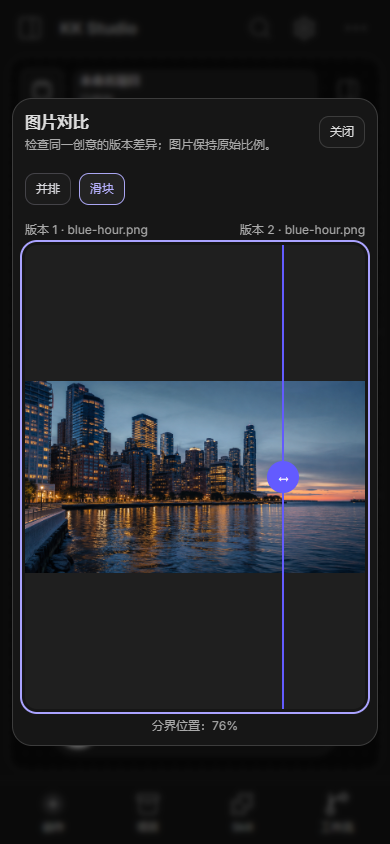
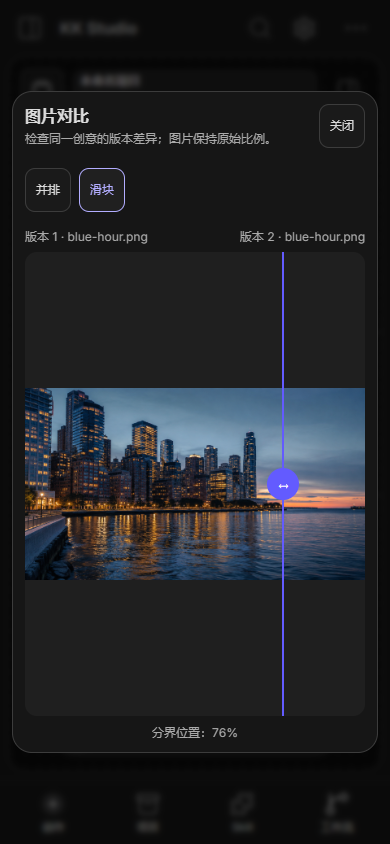
fix: preserve comparison touch targets on zoomed canvas

diff --git a/tests/browser/image-compare.spec.ts b/tests/browser/image-compare.spec.ts
@@ -148,39 +148,85 @@ test("two canvas images open a comparison and the slider supports keyboard steps
 });
 
 test("narrow canvas keeps the comparison controls reachable and slider draggable", async ({
-  page,
+  browser,
 }) => {
-  await page.setViewportSize({ width: 390, height: 844 });
-  await openWorkspace(page);
-  await showCanvasNavigation(page);
-  const first = page.getByTestId("canvas-node-image");
-  await uploadImage(page, first);
-  await page.getByRole("button", { name: "小地图" }).click();
-  await page.getByRole("button", { name: "定位 blue-hour.png" }).click();
-  await first.getByRole("button", { name: /加入对比/ }).click();
-  const second = await addSecondImage(page);
-  await second.getByRole("button", { name: /加入对比/ }).click();
-  const selection = page.getByRole("region", { name: "图片对比选择" });
-  await expect(
-    selection.getByRole("button", { name: "打开对比" }),
-  ).toBeVisible();
-  await selection.getByRole("button", { name: "打开对比" }).click();
-  const dialog = page.getByRole("dialog", { name: "图片对比" });
-  await expect(dialog).toBeVisible();
-  const box = (await dialog.boundingBox())!;
-  expect(box.x).toBeGreaterThanOrEqual(0);
-  expect(box.x + box.width).toBeLessThanOrEqual(390);
-  await dialog.getByRole("button", { name: "滑块" }).click();
-  const slider = dialog.getByRole("slider", { name: "对比位置" });
-  const track = (await slider.boundingBox())!;
-  await page.mouse.click(
-    track.x + track.width * 0.75,
-    track.y + track.height / 2,
-  );
-  await expect
-    .poll(async () => Number(await slider.inputValue()))
-    .toBeGreaterThan(60);
-  await page.screenshot({
-    path: "docs/changes/2026-09-27-canvas-image-compare/evidence/compare-390.png",
+  const context = await browser.newContext({
+    baseURL: "http://127.0.0.1:1423",
+    viewport: { width: 390, height: 844 },
+    hasTouch: true,
   });
+  try {
+    const page = await context.newPage();
+    await openWorkspace(page);
+    await showCanvasNavigation(page);
+    const first = page.getByTestId("canvas-node-image");
+    await uploadImage(page, first);
+    await page.getByRole("button", { name: "小地图" }).click();
+    await page.getByRole("button", { name: "定位 blue-hour.png" }).click();
+    const firstCompare = first.getByRole("button", { name: /加入对比/ });
+    expect((await firstCompare.boundingBox())!.height).toBeGreaterThanOrEqual(
+      44,
+    );
+    await firstCompare.click();
+    const second = await addSecondImage(page);
+    await second.getByRole("button", { name: /加入对比/ }).click();
+    const selection = page.getByRole("region", { name: "图片对比选择" });
+    await expect(
+      selection.getByRole("button", { name: "打开对比" }),
+    ).toBeVisible();
+    expect(
+      (await selection.locator(".image-compare-chip").first().boundingBox())!
+        .height,
+    ).toBeGreaterThanOrEqual(44);
+    expect(
+      (await selection.getByRole("button", { name: "打开对比" }).boundingBox())!
+        .height,
+    ).toBeGreaterThanOrEqual(44);
+    await selection.getByRole("button", { name: "打开对比" }).click();
+    const dialog = page.getByRole("dialog", { name: "图片对比" });
+    await expect(dialog).toBeVisible();
+    for (const label of ["关闭图片对比", "并排", "滑块", "缩小", "放大"]) {
+      expect(
+        (await dialog.getByRole("button", { name: label }).boundingBox())!
+          .height,
+      ).toBeGreaterThanOrEqual(44);
+    }
+    const box = (await dialog.boundingBox())!;
+    expect(box.x).toBeGreaterThanOrEqual(0);
+    expect(box.x + box.width).toBeLessThanOrEqual(390);
+    await dialog.getByRole("button", { name: "滑块" }).click();
+    const slider = dialog.getByRole("slider", { name: "对比位置" });
+    const track = (await slider.boundingBox())!;
+    const y = track.y + track.height / 2;
+    const startX = track.x + track.width * 0.25;
+    const endX = track.x + track.width * 0.75;
+    expect(await page.evaluate(() => navigator.maxTouchPoints)).toBeGreaterThan(
+      0,
+    );
+    await page.touchscreen.tap(startX, y);
+    await expect
+      .poll(async () => Number(await slider.inputValue()))
+      .toBeLessThan(40);
+    const cdp = await context.newCDPSession(page);
+    await cdp.send("Input.dispatchTouchEvent", {
+      type: "touchStart",
+      touchPoints: [{ x: startX, y }],
+    });
+    await cdp.send("Input.dispatchTouchEvent", {
+      type: "touchMove",
+      touchPoints: [{ x: endX, y }],
+    });
+    await cdp.send("Input.dispatchTouchEvent", {
+      type: "touchEnd",
+      touchPoints: [],
+    });
+    await expect
+      .poll(async () => Number(await slider.inputValue()))
+      .toBeGreaterThan(60);
+    await page.screenshot({
+      path: "docs/changes/2026-09-27-canvas-image-compare/evidence/compare-390.png",
+    });
+  } finally {
+    await context.close();
+  }
 });

diff --git a/src/styles/canvas-compare.css b/src/styles/canvas-compare.css
@@ -1,11 +1,13 @@
 .image-preview > .compare-image-button {
   position: absolute;
-  top: 12px;
-  right: 12px;
+  top: 0;
+  right: 0;
   z-index: 3;
   min-height: 32px;
   background: var(--bg-surface);
   border: 1px solid var(--border-default);
+  transform: scale(calc(1 / var(--canvas-scale, 1))) translate(-12px, 12px);
+  transform-origin: top right;
 }
 
 .image-compare-selection {
@@ -346,6 +348,11 @@
   }
 
   .image-compare-selection-actions .ui-button {
+    min-height: 44px;
+  }
+
+  .image-compare-chip,
+  .image-compare-dialog .ui-button {
     min-height: 44px;
   }
 

diff --git a/docs/changes/2026-09-27-canvas-image-compare/verification.md b/docs/changes/2026-09-27-canvas-image-compare/verification.md
@@ -8,36 +8,36 @@
 
 ## 基线
 
-| 检查 | 结果 | 边界 |
-| --- | --- | --- |
-| `npm ci`，Node 24.21.0 | PASS | 独立 worktree；postinstall Agent/插件构建通过 |
-| `npm run typecheck` | PASS | 代码修改前 |
-| `npm run lint` | PASS | 治理 70/0、功能 32/0、Markdown 85/0；代码修改前 |
-| `npm run ui:check` | PASS | 159 文件、0 违规；代码修改前 |
-| `npm test` | PASS | 456/456；代码修改前 |
+| 检查                   | 结果 | 边界                                            |
+| ---------------------- | ---- | ----------------------------------------------- |
+| `npm ci`，Node 24.21.0 | PASS | 独立 worktree；postinstall Agent/插件构建通过   |
+| `npm run typecheck`    | PASS | 代码修改前                                      |
+| `npm run lint`         | PASS | 治理 70/0、功能 32/0、Markdown 85/0；代码修改前 |
+| `npm run ui:check`     | PASS | 159 文件、0 违规；代码修改前                    |
+| `npm test`             | PASS | 456/456；代码修改前                             |
 
 ## 候选门禁
 
-| 检查 | 结果 | 证据与边界 |
-| --- | --- | --- |
-| `npm run verify` | PASS，退出码 0 | ESLint、治理 71/0、功能 33/0、Markdown 86/0、TypeScript、Node 单测、UI 标准、Prettier、生产构建、Edge 浏览器 302/302；本 worktree 的未提交候选，尚非最终提交 SHA |
-| `npm run client:check` | PASS，退出码 0 | Tauri/Rust dev profile；5 条既有未使用函数警告 |
-| `npm run client:build` | PASS，退出码 0 | 重新构建 `dist`、release exe，并生成 MSI/NSIS；产物未发布 |
-| `node tests/desktop/image-compare.mjs` | PASS，退出码 0 | 在隔离 `--data-dir` 和独立 `WEBVIEW2_USER_DATA_FOLDER` 中运行真实 release GUI；运行前 IPC 断言实际数据根目录 |
+| 检查                                   | 结果           | 证据与边界                                                                                                                                                       |
+| -------------------------------------- | -------------- | ---------------------------------------------------------------------------------------------------------------------------------------------------------------- |
+| `npm run verify`                       | PASS，退出码 0 | ESLint、治理 71/0、功能 33/0、Markdown 86/0、TypeScript、Node 单测、UI 标准、Prettier、生产构建、Edge 浏览器 302/302；本 worktree 的未提交候选，尚非最终提交 SHA |
+| `npm run client:check`                 | PASS，退出码 0 | Tauri/Rust dev profile；5 条既有未使用函数警告                                                                                                                   |
+| `npm run client:build`                 | PASS，退出码 0 | 重新构建 `dist`、release exe，并生成 MSI/NSIS；产物未发布                                                                                                        |
+| `node tests/desktop/image-compare.mjs` | PASS，退出码 0 | 在隔离 `--data-dir` 和独立 `WEBVIEW2_USER_DATA_FOLDER` 中运行真实 release GUI；运行前 IPC 断言实际数据根目录                                                     |
 
-新单测先失败后通过；浏览器用例也先复现并修正了 1440/1220px 对话侧栏遮挡、对比层右键/双击触发画布菜单、滑块 0% 时错误重试不可点击。失败记录来自修复过程，最终候选用例保持这些断言。
+新单测先失败后通过；浏览器用例也先复现并修正了 1440/1220px 对话侧栏遮挡、对比层右键/双击触发画布菜单、滑块 0% 时错误重试不可点击。预审后增加 390px 实际屏幕命中区断言，最初测得图片卡入口仅 24.9px，修正画布逆缩放后通过；弹窗主要按钮与选择项也量测至少 44px。失败记录来自修复过程，最终候选用例保持这些断言。
 
 ## Web 运行态
 
 - 启动：`npm run verify` 的 `test:ui` 使用 `vite preview --host 127.0.0.1 --port 1423 --strictPort`；浏览器 URL `http://127.0.0.1:1423/`，`data-runtime-mode=production`、`data-runtime-entry=src/main.tsx`。
 - 路径：项目库 → 新建项目 → Workspace；`src/main.tsx` → `App.tsx` → `Canvas.tsx` → `CanvasNodeLayer` / 图片节点，以及 `ImageCompareControls` → `ImageCompareDialog`。仅一个 production CSS bundle，浏览器断言对比层最终背景色 `rgb(22, 22, 22)`。
-- 实际加载的构建：`dist/assets/index-D7BhC6vf.js`、`dist/assets/index-BpENrrtk.css`。测试使用归档的本地 fixture，覆盖选择/移除、数量门禁、并排标签/来源、放大及同步滚动、滑块 1%/10% 键盘步长与指针、错误/重试（含 300% 滚动后与滑块 0%）、Escape 回焦、删除后剔除。未调用真实 Provider。
-- [1440px 并排截图](evidence/compare-1440.png)；1220px 测试断言选择条未被右侧对话框盖住并能重新打开；[390px 滑块截图](evidence/compare-390.png)。390px 为浏览器窄屏，不等于原生 Mobile。
+- 实际加载的构建：`dist/assets/index-CiI8omeN.js`、`dist/assets/index-C6Fplctk.css`。测试使用归档的本地 fixture，覆盖选择/移除、数量门禁、并排标签/来源、放大及同步滚动、滑块 1%/10% 键盘步长与指针、错误/重试（含 300% 滚动后与滑块 0%）、Escape 回焦、删除后剔除。未调用真实 Provider。
+- [1440px 并排截图](evidence/compare-1440.png)；1220px 测试断言选择条未被右侧对话框盖住并能重新打开；[390px 滑块截图](evidence/compare-390.png)。390px 用 `hasTouch` 浏览器上下文和 CDP `touchStart/touchMove/touchEnd` 从 25% 拖至 75%，并量测入口、选择项、打开对比、弹窗关闭/模式/缩放控件的屏幕高度至少 44px。这是浏览器仿真触摸，不等于物理手机或原生 Mobile 验收。
 
 ## Desktop 运行态
 
 - `src-tauri/target/release/kk-studio.exe --data-dir <隔离绝对目录>`；独立 WebView2 profile，经 CDP 操作 `http://tauri.localhost/`。IPC `get_storage_root` 与隔离目录完全一致；未使用默认用户数据目录。结束后本轮进程已退出。
-- `data-runtime-mode=production`、`data-runtime-entry=src/main.tsx`；实际 WebView2 加载 `index-D7BhC6vf.js` 和 `index-BpENrrtk.css`，与 Web preview 同一 production 前端。打开项目、上传两张本地图片、加入对比、并排、滑块方向键和 Escape 均实际通过，page errors 为空。
[1 lines of base64/hex data omitted]
 - [桌面对比截图](evidence/compare-desktop.png)和[运行元数据、exe SHA-256](evidence/desktop-acceptance.json)；脚本 `tests/desktop/image-compare.mjs` 可重复验证。未安装 MSI/NSIS，未做真实 Provider、原生触屏或用户视觉验收。
 
 ## 交付边界

diff --git a/docs/features/feat-036-image-compare.md b/docs/features/feat-036-image-compare.md
@@ -3,7 +3,7 @@
 - 状态：PARTIAL
 - 领域：canvas
 - 最近更新：2026-09-27
-- 关联任务：TASK-COMPARE-001（IN_PROGRESS）
+- 关联任务：TASK-COMPARE-001（REVIEW）
 
 ## 用户可见入口
 
@@ -25,7 +25,7 @@
 
 ## 当前能力
 
-- Web production preview 已通过 1440px、1220px、390px 的真实浏览器操作：加入/移除图片、并排缩放滚动、滑块键盘与触屏、错误重试和删除后剔除。截图与 DOM 证据见本轮验证记录。
+- Web production preview 已通过 1440px、1220px、390px 的浏览器操作：加入/移除图片、并排缩放滚动、滑块键盘与仿真触摸拖动、错误重试和删除后剔除。390px 还量测了主要对比按钮至少 44px 的屏幕命中高度。截图与 DOM 证据见本轮验证记录。
 - Tauri release 在独立数据根目录与 WebView profile 中完成了两张本地图片、并排对比、滑块键盘及 Escape 的原生 GUI 操作；JS/CSS 与本轮 Web 产物哈希一致。
 - 选择仅在当前画布会话内保留；刷新或切换项目后清空。比较过程不修改素材或调用生成服务。
 

diff --git a/docs/changes/2026-09-27-canvas-image-compare/review.md b/docs/changes/2026-09-27-canvas-image-compare/review.md
@@ -13,5 +13,6 @@
 
 ## 尚待独立和托管门禁
 
-- 独立上下文 review：NOT VERIFIED；须绑定本次提交的 base/head SHA，检查实际 diff，不能把上述自审算作独立结论。
+- 独立上下文 dirty diff 预审：发现手机端入口随画布缩小至 24.9px、弹窗按钮仅 32px、触屏证据表述超出原用例、功能卡与账本状态不一致。已修正入口逆缩放和 44px 控件，并增加 `hasTouch` + CDP 拖动与 `boundingBox` 断言，功能卡状态同步为 REVIEW。此预审未绑定最终 SHA，不作为最终独立结论。
+- 最终提交 SHA 的独立上下文 review：NOT VERIFIED；须绑定 base/head 检查实际 diff。
 - Hosted PR `verify`/`delivery`：NOT RUN；用户产品验收：NOT RECORDED；主线集成/正式发布：NOT DONE。
